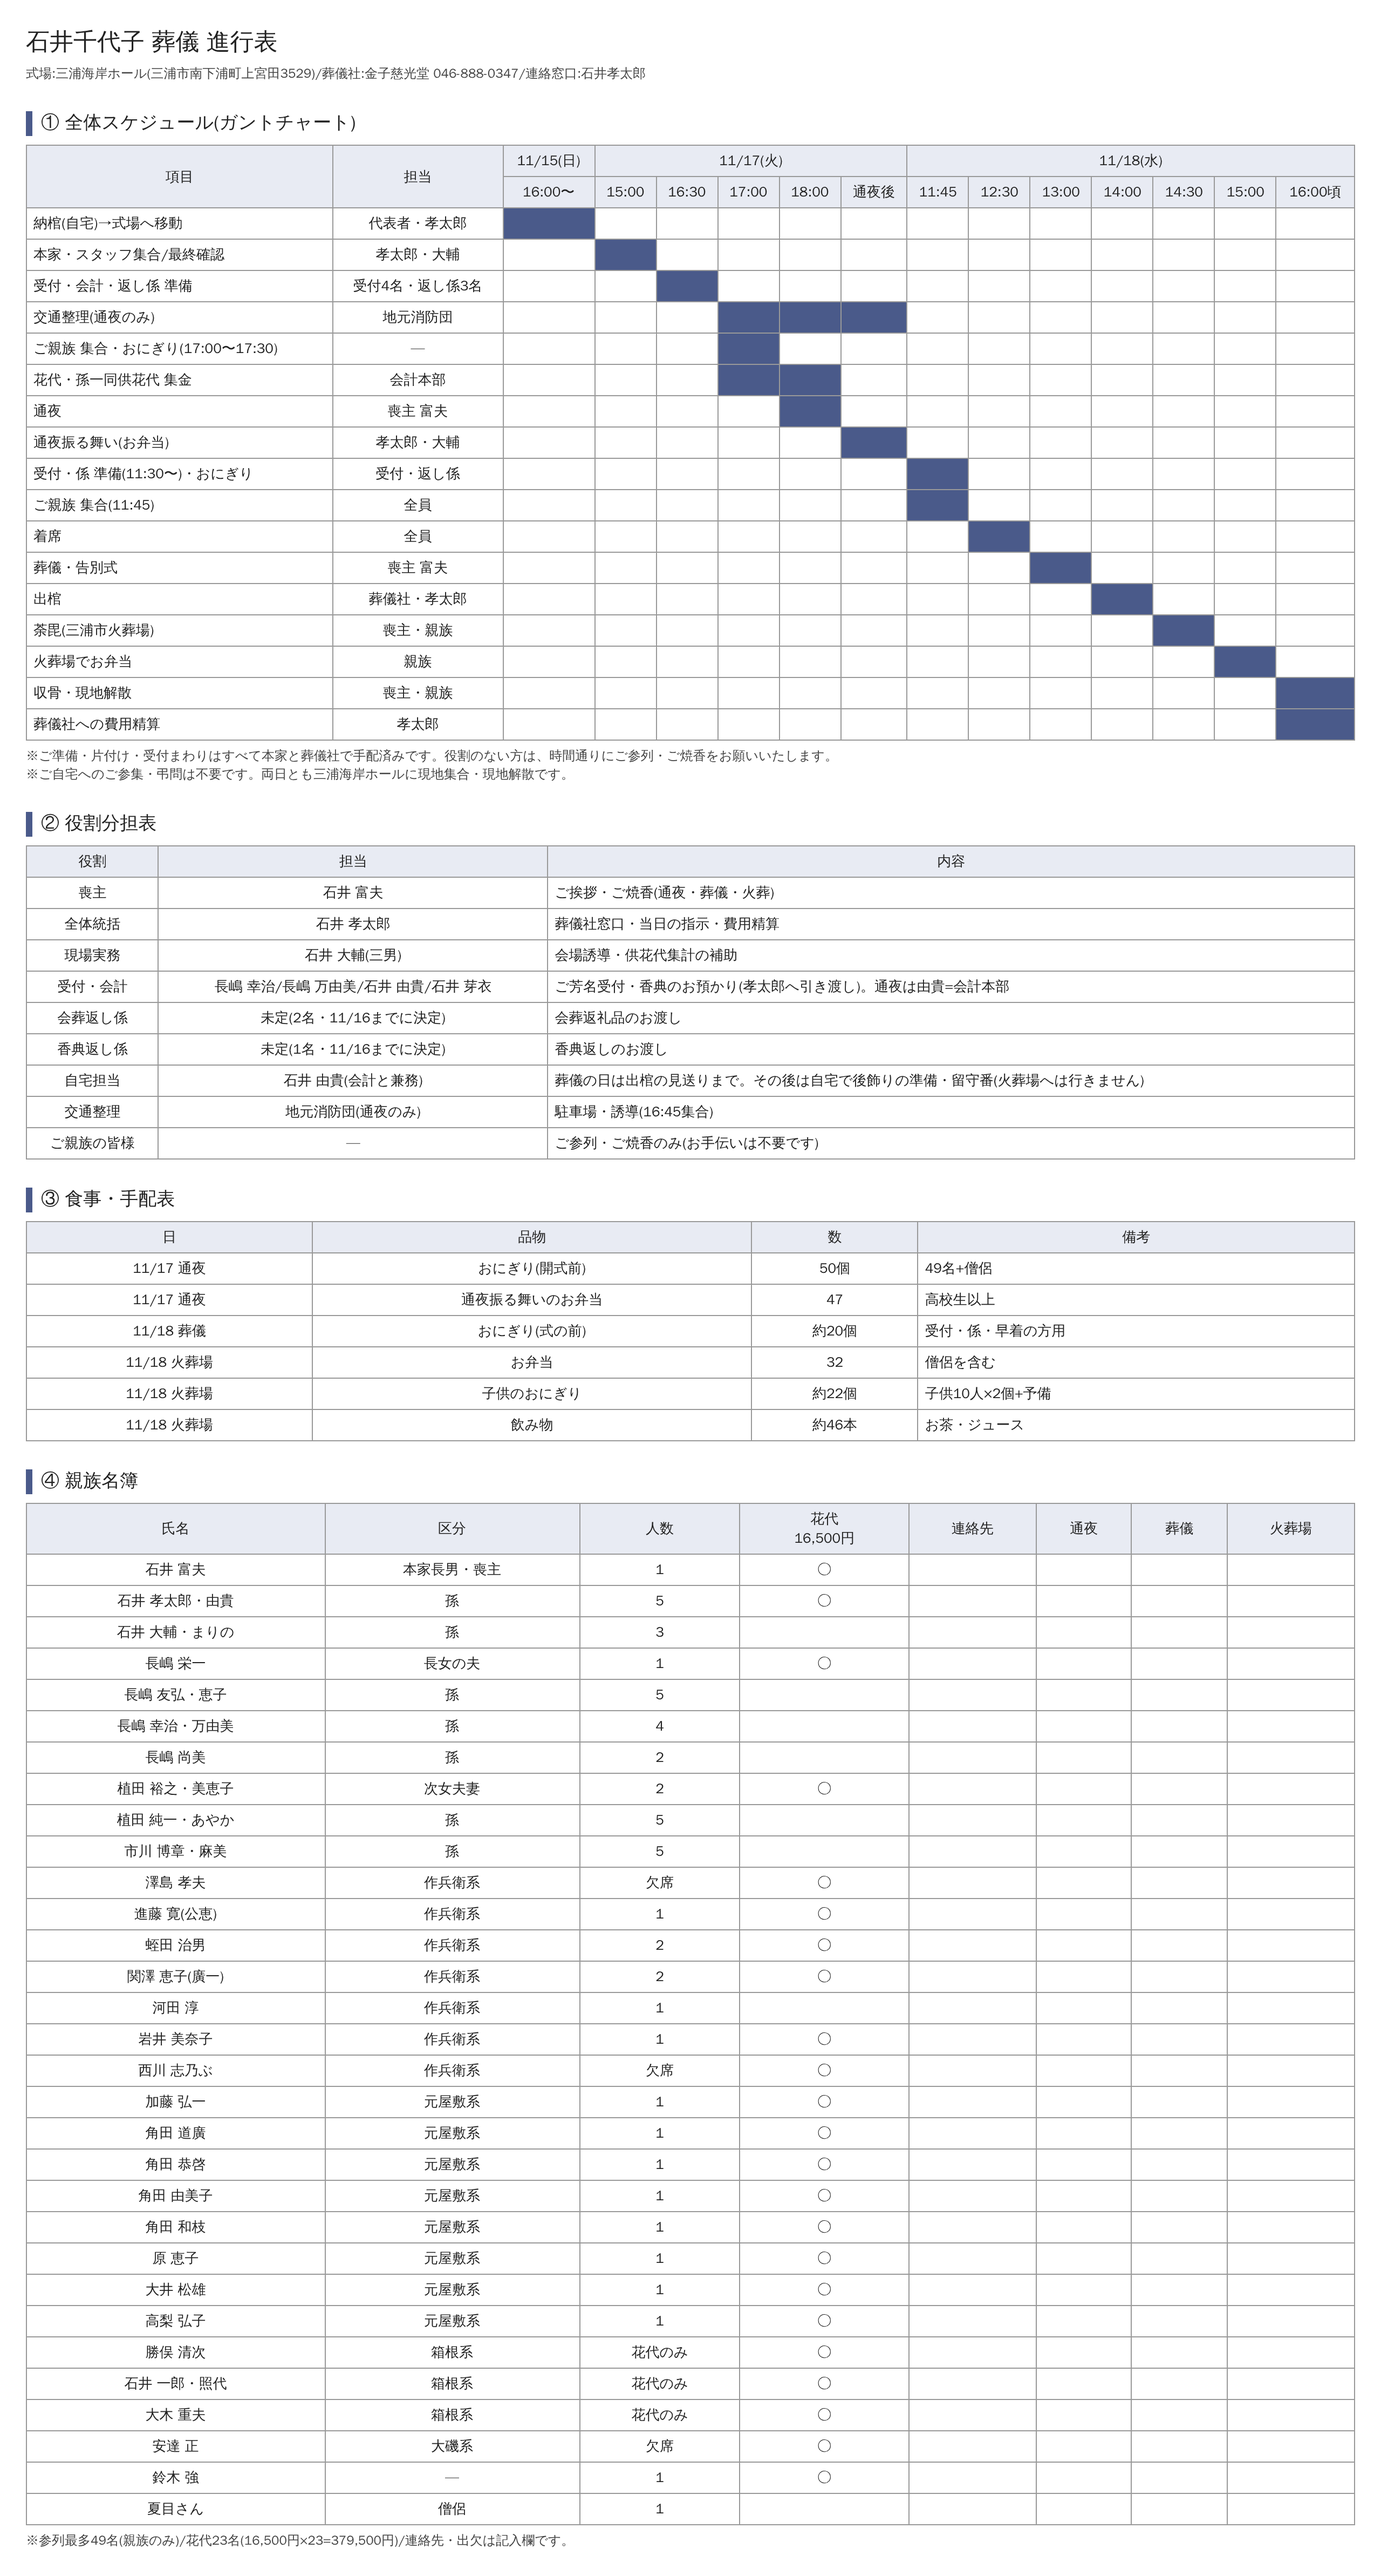
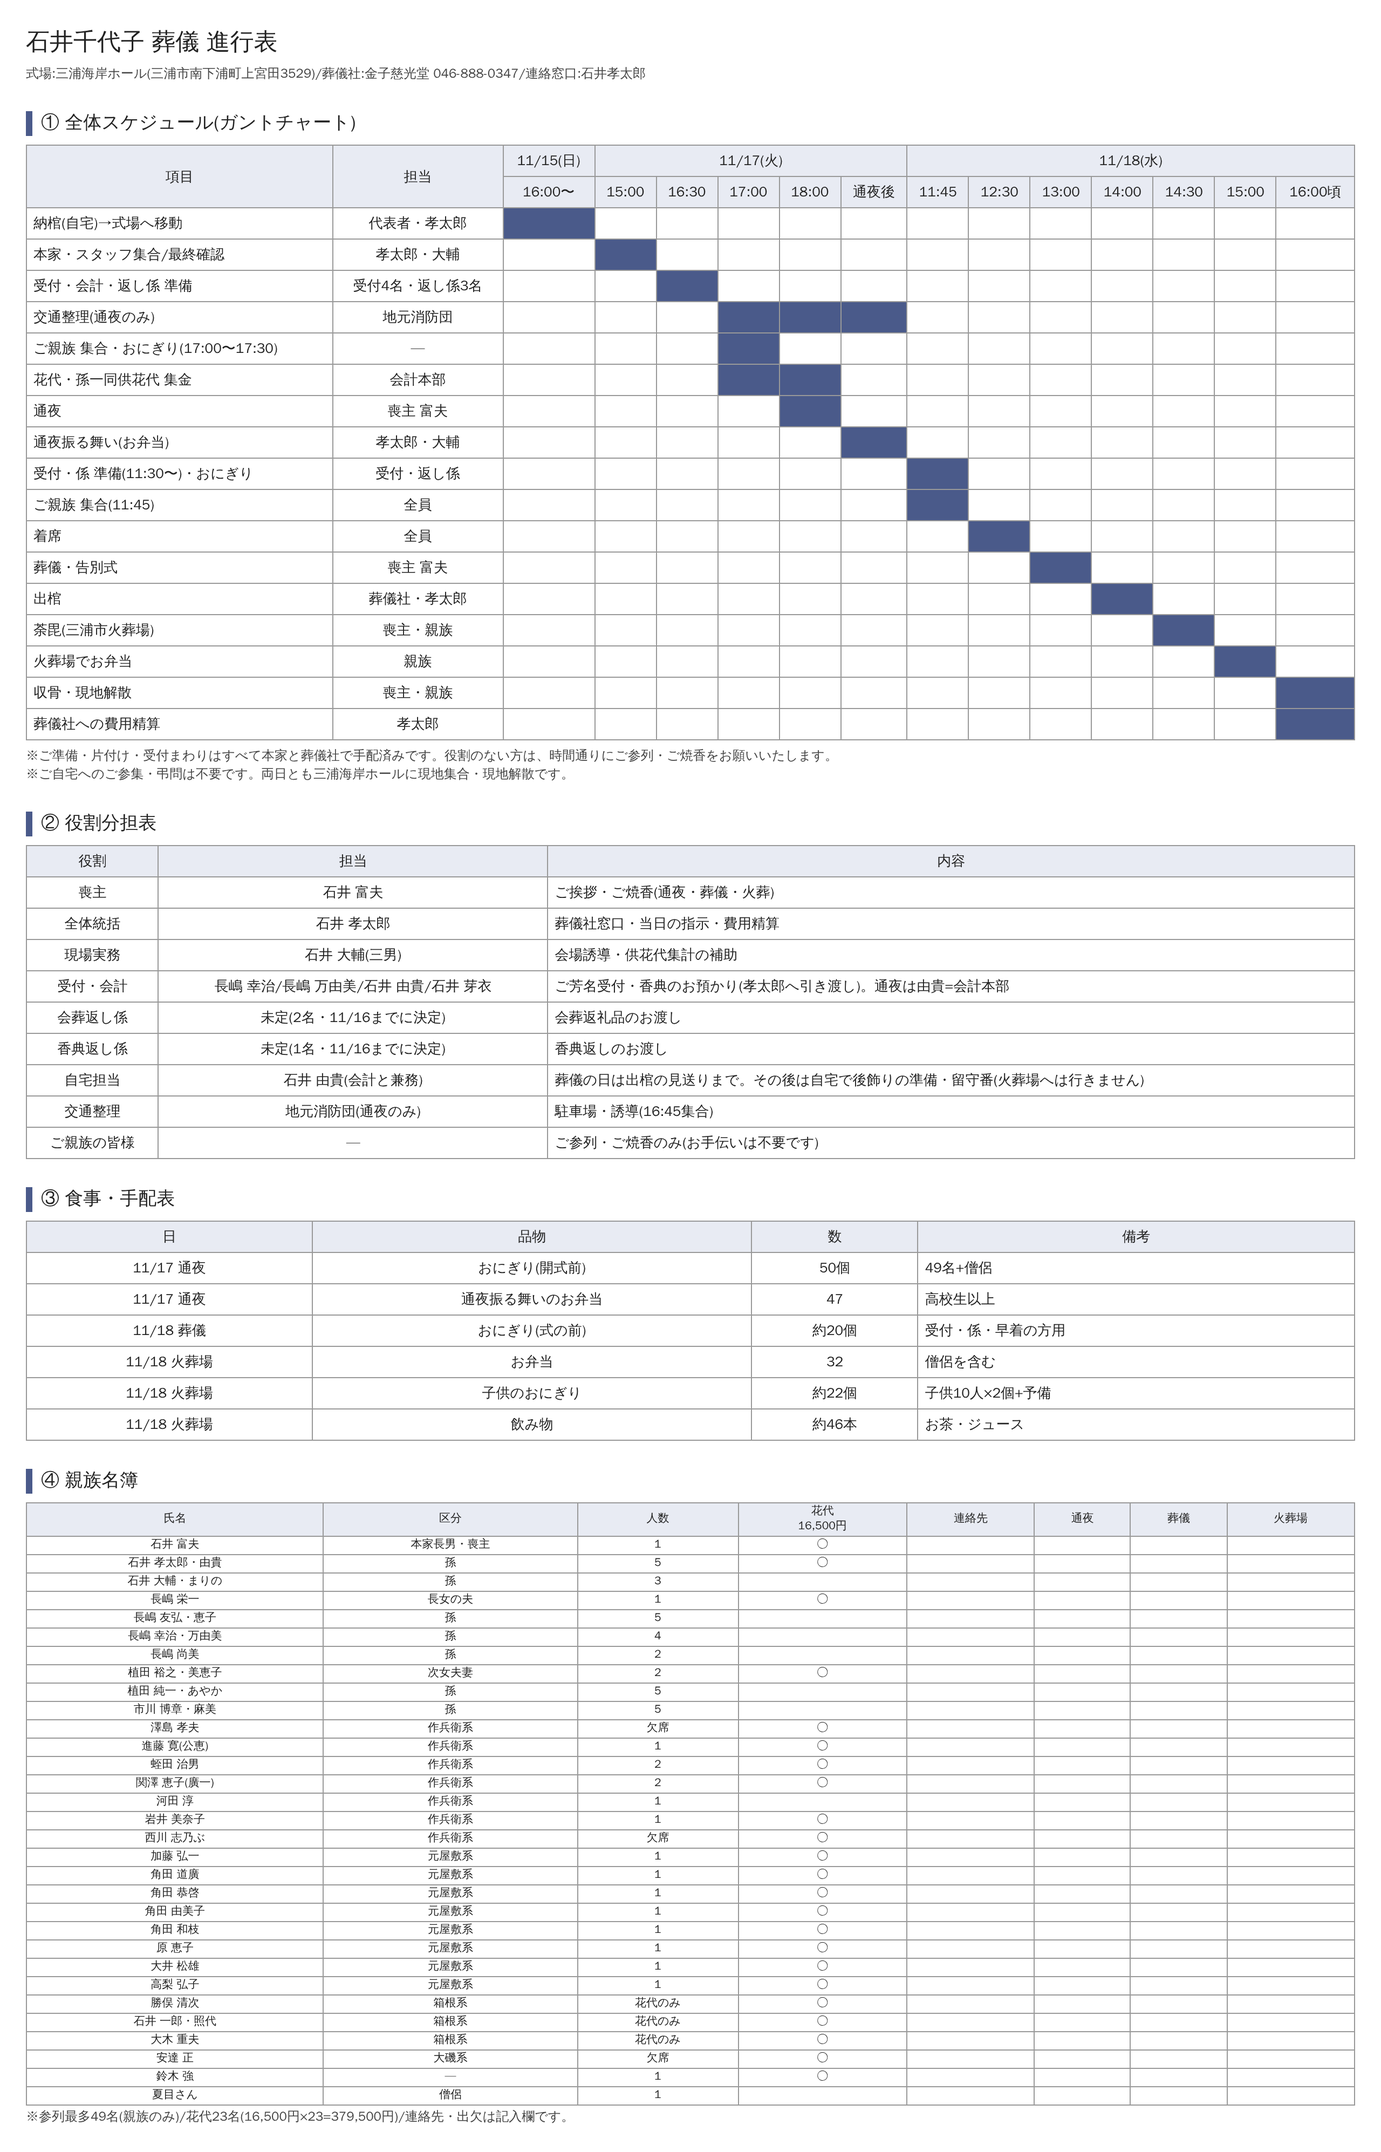
進行表をA4横3枚に収まるよう印刷用に調整
Claude-Session: https://claude.ai/code/session_017EN71ntz6Y61c3RwKNapL6

diff --git a/葬儀資料/葬儀進行表.html b/葬儀資料/葬儀進行表.html
@@ -3,7 +3,7 @@ body{font-family:"WenQuanYi Zen Hei",sans-serif;margin:24px;color:#222}
 h1{font-size:22px;margin:0}h2{font-size:17px;border-left:6px solid #4a5a8a;padding-left:8px;margin:26px 0 8px}
 table{border-collapse:collapse;width:100%;font-size:13px}th,td{border:1px solid #999;padding:5px 6px;text-align:center}
 th{background:#e8ebf3}td.l{text-align:left}.b{background:#4a5a8a}.note{font-size:12px;color:#444;margin-top:6px}
-.pb{page-break-before:always}
+.pb{page-break-before:always}table.r{font-size:10.5px}table.r th,table.r td{padding:1px 5px}table.r+.note{margin-top:2px}thead{display:table-header-group}tr{page-break-inside:avoid}@page{size:A4 landscape;margin:10mm}@media print{body{margin:0}}
 </style></head><body>
 <h1>石井千代子 葬儀 進行表</h1>
 <div class="note">式場:三浦海岸ホール(三浦市南下浦町上宮田3529)/葬儀社:金子慈光堂 046-888-0347/連絡窓口:石井孝太郎</div>
@@ -24,4 +24,4 @@ th{background:#e8ebf3}td.l{text-align:left}.b{background:#4a5a8a}.note{font-size
 <tr><td>11/18 火葬場</td><td>お弁当</td><td>32</td><td class=l>僧侶を含む</td></tr>
 <tr><td>11/18 火葬場</td><td>子供のおにぎり</td><td>約22個</td><td class=l>子供10人×2個+予備</td></tr>
 <tr><td>11/18 火葬場</td><td>飲み物</td><td>約46本</td><td class=l>お茶・ジュース</td></tr></table>
-<h2 class=pb>④ 親族名簿</h2><table><tr><th>氏名</th><th>区分</th><th>人数</th><th>花代<br>16,500円</th><th>連絡先</th><th>通夜</th><th>葬儀</th><th>火葬場</th></tr><tr><td>石井 富夫</td><td>本家長男・喪主</td><td>1</td><td>○</td><td></td><td></td><td></td><td></td></tr><tr><td>石井 孝太郎・由貴</td><td>孫</td><td>5</td><td>○</td><td></td><td></td><td></td><td></td></tr><tr><td>石井 大輔・まりの</td><td>孫</td><td>3</td><td></td><td></td><td></td><td></td><td></td></tr><tr><td>長嶋 栄一</td><td>長女の夫</td><td>1</td><td>○</td><td></td><td></td><td></td><td></td></tr><tr><td>長嶋 友弘・恵子</td><td>孫</td><td>5</td><td></td><td></td><td></td><td></td><td></td></tr><tr><td>長嶋 幸治・万由美</td><td>孫</td><td>4</td><td></td><td></td><td></td><td></td><td></td></tr><tr><td>長嶋 尚美</td><td>孫</td><td>2</td><td></td><td></td><td></td><td></td><td></td></tr><tr><td>植田 裕之・美恵子</td><td>次女夫妻</td><td>2</td><td>○</td><td></td><td></td><td></td><td></td></tr><tr><td>植田 純一・あやか</td><td>孫</td><td>5</td><td></td><td></td><td></td><td></td><td></td></tr><tr><td>市川 博章・麻美</td><td>孫</td><td>5</td><td></td><td></td><td></td><td></td><td></td></tr><tr><td>澤島 孝夫</td><td>作兵衛系</td><td>欠席</td><td>○</td><td></td><td></td><td></td><td></td></tr><tr><td>進藤 寛(公恵)</td><td>作兵衛系</td><td>1</td><td>○</td><td></td><td></td><td></td><td></td></tr><tr><td>蛭田 治男</td><td>作兵衛系</td><td>2</td><td>○</td><td></td><td></td><td></td><td></td></tr><tr><td>関澤 恵子(廣一)</td><td>作兵衛系</td><td>2</td><td>○</td><td></td><td></td><td></td><td></td></tr><tr><td>河田 淳</td><td>作兵衛系</td><td>1</td><td></td><td></td><td></td><td></td><td></td></tr><tr><td>岩井 美奈子</td><td>作兵衛系</td><td>1</td><td>○</td><td></td><td></td><td></td><td></td></tr><tr><td>西川 志乃ぶ</td><td>作兵衛系</td><td>欠席</td><td>○</td><td></td><td></td><td></td><td></td></tr><tr><td>加藤 弘一</td><td>元屋敷系</td><td>1</td><td>○</td><td></td><td></td><td></td><td></td></tr><tr><td>角田 道廣</td><td>元屋敷系</td><td>1</td><td>○</td><td></td><td></td><td></td><td></td></tr><tr><td>角田 恭啓</td><td>元屋敷系</td><td>1</td><td>○</td><td></td><td></td><td></td><td></td></tr><tr><td>角田 由美子</td><td>元屋敷系</td><td>1</td><td>○</td><td></td><td></td><td></td><td></td></tr><tr><td>角田 和枝</td><td>元屋敷系</td><td>1</td><td>○</td><td></td><td></td><td></td><td></td></tr><tr><td>原 恵子</td><td>元屋敷系</td><td>1</td><td>○</td><td></td><td></td><td></td><td></td></tr><tr><td>大井 松雄</td><td>元屋敷系</td><td>1</td><td>○</td><td></td><td></td><td></td><td></td></tr><tr><td>高梨 弘子</td><td>元屋敷系</td><td>1</td><td>○</td><td></td><td></td><td></td><td></td></tr><tr><td>勝俣 清次</td><td>箱根系</td><td>花代のみ</td><td>○</td><td></td><td></td><td></td><td></td></tr><tr><td>石井 一郎・照代</td><td>箱根系</td><td>花代のみ</td><td>○</td><td></td><td></td><td></td><td></td></tr><tr><td>大木 重夫</td><td>箱根系</td><td>花代のみ</td><td>○</td><td></td><td></td><td></td><td></td></tr><tr><td>安達 正</td><td>大磯系</td><td>欠席</td><td>○</td><td></td><td></td><td></td><td></td></tr><tr><td>鈴木 強</td><td>—</td><td>1</td><td>○</td><td></td><td></td><td></td><td></td></tr><tr><td>夏目さん</td><td>僧侶</td><td>1</td><td></td><td></td><td></td><td></td><td></td></tr></table><div class="note">※参列最多49名(親族のみ)/花代23名(16,500円×23=379,500円)/連絡先・出欠は記入欄です。</div></body></html>
+<h2 class=pb>④ 親族名簿</h2><table class=r><tr><th>氏名</th><th>区分</th><th>人数</th><th>花代<br>16,500円</th><th>連絡先</th><th>通夜</th><th>葬儀</th><th>火葬場</th></tr><tr><td>石井 富夫</td><td>本家長男・喪主</td><td>1</td><td>○</td><td></td><td></td><td></td><td></td></tr><tr><td>石井 孝太郎・由貴</td><td>孫</td><td>5</td><td>○</td><td></td><td></td><td></td><td></td></tr><tr><td>石井 大輔・まりの</td><td>孫</td><td>3</td><td></td><td></td><td></td><td></td><td></td></tr><tr><td>長嶋 栄一</td><td>長女の夫</td><td>1</td><td>○</td><td></td><td></td><td></td><td></td></tr><tr><td>長嶋 友弘・恵子</td><td>孫</td><td>5</td><td></td><td></td><td></td><td></td><td></td></tr><tr><td>長嶋 幸治・万由美</td><td>孫</td><td>4</td><td></td><td></td><td></td><td></td><td></td></tr><tr><td>長嶋 尚美</td><td>孫</td><td>2</td><td></td><td></td><td></td><td></td><td></td></tr><tr><td>植田 裕之・美恵子</td><td>次女夫妻</td><td>2</td><td>○</td><td></td><td></td><td></td><td></td></tr><tr><td>植田 純一・あやか</td><td>孫</td><td>5</td><td></td><td></td><td></td><td></td><td></td></tr><tr><td>市川 博章・麻美</td><td>孫</td><td>5</td><td></td><td></td><td></td><td></td><td></td></tr><tr><td>澤島 孝夫</td><td>作兵衛系</td><td>欠席</td><td>○</td><td></td><td></td><td></td><td></td></tr><tr><td>進藤 寛(公恵)</td><td>作兵衛系</td><td>1</td><td>○</td><td></td><td></td><td></td><td></td></tr><tr><td>蛭田 治男</td><td>作兵衛系</td><td>2</td><td>○</td><td></td><td></td><td></td><td></td></tr><tr><td>関澤 恵子(廣一)</td><td>作兵衛系</td><td>2</td><td>○</td><td></td><td></td><td></td><td></td></tr><tr><td>河田 淳</td><td>作兵衛系</td><td>1</td><td></td><td></td><td></td><td></td><td></td></tr><tr><td>岩井 美奈子</td><td>作兵衛系</td><td>1</td><td>○</td><td></td><td></td><td></td><td></td></tr><tr><td>西川 志乃ぶ</td><td>作兵衛系</td><td>欠席</td><td>○</td><td></td><td></td><td></td><td></td></tr><tr><td>加藤 弘一</td><td>元屋敷系</td><td>1</td><td>○</td><td></td><td></td><td></td><td></td></tr><tr><td>角田 道廣</td><td>元屋敷系</td><td>1</td><td>○</td><td></td><td></td><td></td><td></td></tr><tr><td>角田 恭啓</td><td>元屋敷系</td><td>1</td><td>○</td><td></td><td></td><td></td><td></td></tr><tr><td>角田 由美子</td><td>元屋敷系</td><td>1</td><td>○</td><td></td><td></td><td></td><td></td></tr><tr><td>角田 和枝</td><td>元屋敷系</td><td>1</td><td>○</td><td></td><td></td><td></td><td></td></tr><tr><td>原 恵子</td><td>元屋敷系</td><td>1</td><td>○</td><td></td><td></td><td></td><td></td></tr><tr><td>大井 松雄</td><td>元屋敷系</td><td>1</td><td>○</td><td></td><td></td><td></td><td></td></tr><tr><td>高梨 弘子</td><td>元屋敷系</td><td>1</td><td>○</td><td></td><td></td><td></td><td></td></tr><tr><td>勝俣 清次</td><td>箱根系</td><td>花代のみ</td><td>○</td><td></td><td></td><td></td><td></td></tr><tr><td>石井 一郎・照代</td><td>箱根系</td><td>花代のみ</td><td>○</td><td></td><td></td><td></td><td></td></tr><tr><td>大木 重夫</td><td>箱根系</td><td>花代のみ</td><td>○</td><td></td><td></td><td></td><td></td></tr><tr><td>安達 正</td><td>大磯系</td><td>欠席</td><td>○</td><td></td><td></td><td></td><td></td></tr><tr><td>鈴木 強</td><td>—</td><td>1</td><td>○</td><td></td><td></td><td></td><td></td></tr><tr><td>夏目さん</td><td>僧侶</td><td>1</td><td></td><td></td><td></td><td></td><td></td></tr></table><div class="note">※参列最多49名(親族のみ)/花代23名(16,500円×23=379,500円)/連絡先・出欠は記入欄です。</div></body></html>
